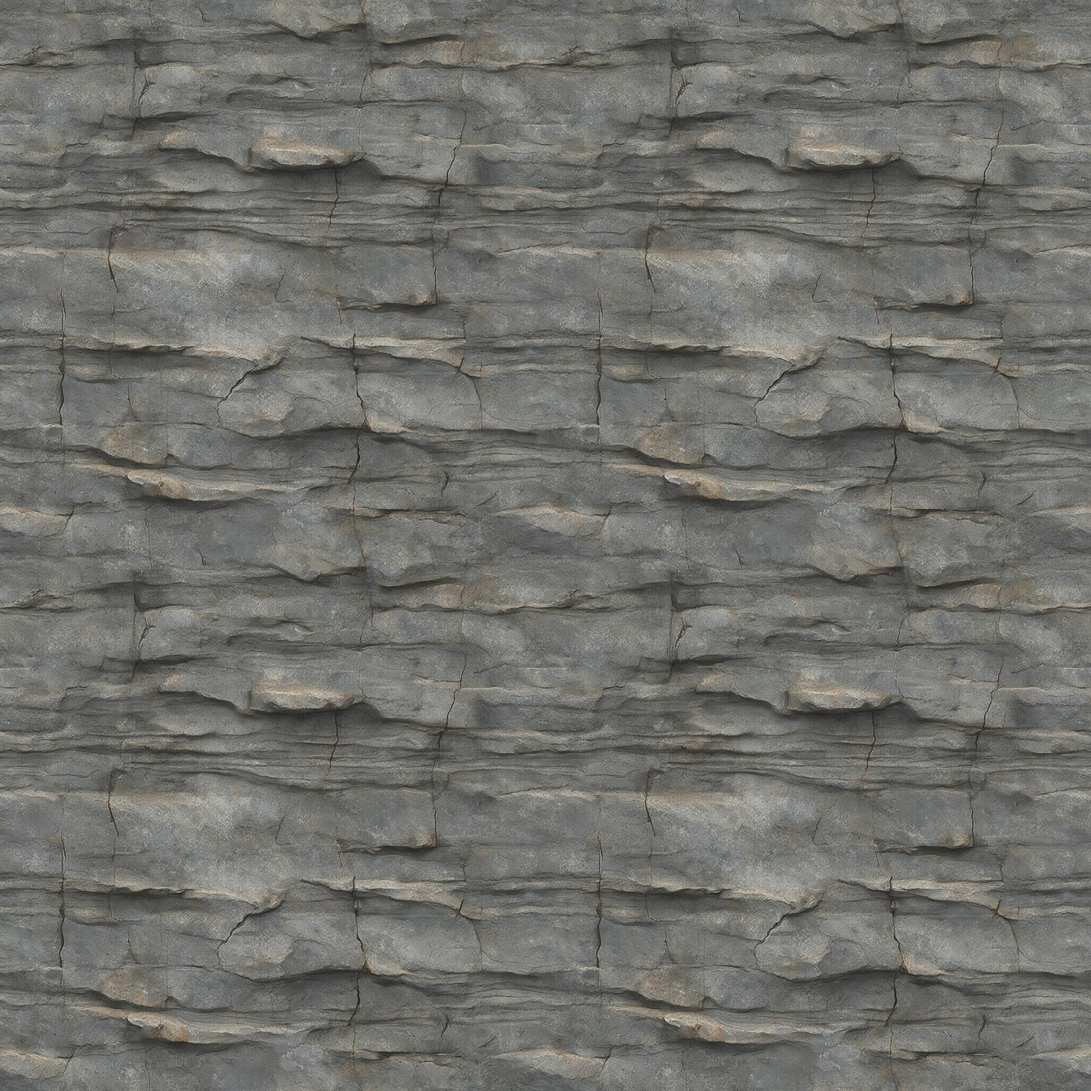
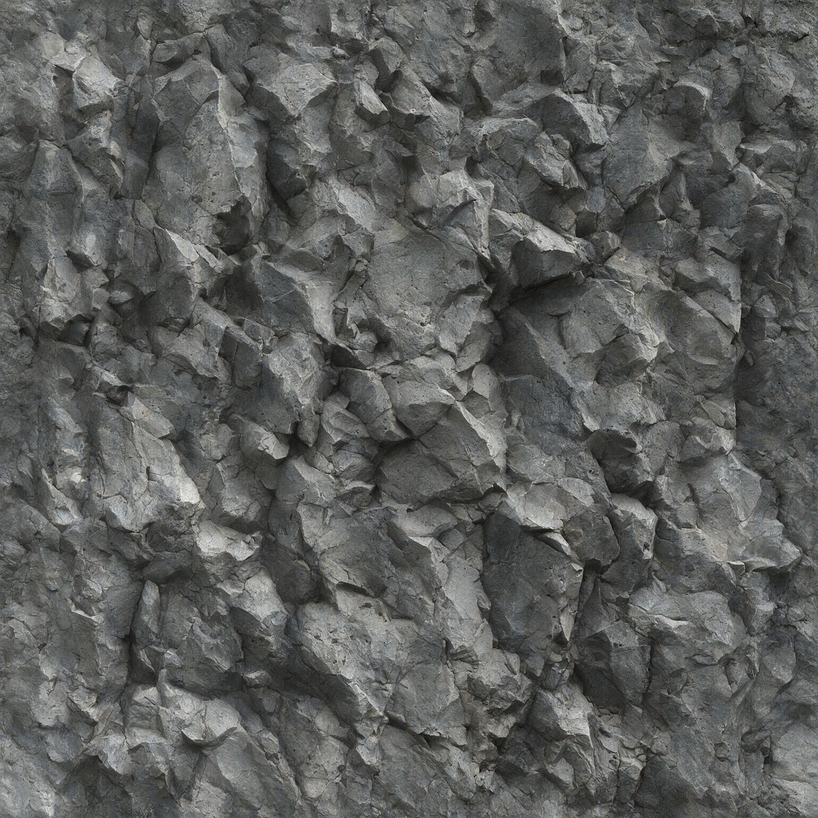
fix(assets): ice_glacial was a landscape PHOTO, cliff_strata was brickwork
Two textures failed on visual inspection that my seam metric had passed, because I
checked the numbers and never looked at the image:

- ice_glacial.jpg was a perspective aerial photograph of a frozen lake, horizon line,
  sky and snow-capped mountain range included. It was mapped onto the Glacier Throne and
  the frozen lake, so the tundra hero landmark was wallpapered in a picture of scenery.
  Replaced with a true top-down ice sheet: pressure-crack web, wind-blown snow, no horizon.
- cliff_strata.jpg is regular horizontal courses of ~1 m blocks with mortar-like seams —
  the source of 'the mountain is made of bricks' in Dragon Peaks and the 'wallpapered'
  mountain ring reported in celestial, infernal and void. Replaced with irregular jagged
  fracture planes at random angles.

Both re-made seamless by periodic decomposition and judged 2x2 TILED, which is the only
way a repeat artifact shows itself.

diff --git a/src/world/Props.js b/src/world/Props.js
@@ -287,10 +287,11 @@ export class Props {
     };
     this.regionMat = {
       forest: mkTri('rm-forest', 'granite_moss', 0.30, { moss: 0.35 }),                                    // elven ruins sinking under moss
-      // 0.55 (a ~1.8 m tile), not 0.28: on the Throne's 12 m slabs a 3.6 m tile put ONE big feature on each
+      // 0.40 (a 2.5 m tile), not 0.28: on the Throne's 12 m slabs a 3.6 m tile put ONE big feature on each
       // face and triplanar swapped axis at every corner, which is the wave-2 "per-face photo-vista seams
-      // that mismatch at every edge". At 1.8 m the same map reads as ice crystal instead of a pasted photo.
-      tundra: mkTri('rm-tundra', 'ice_glacial', 0.55, { rough: 0.45, moss: 0.45, mossCol: [0.62, 0.66, 0.78] }), // glacial ice, snow-dusted up-faces
+      // that mismatch at every edge". 2.5 m reads as ice strata; 0.55 (1.8 m) went the other way and the
+      // repeat became visible wallpaper on the same slabs.
+      tundra: mkTri('rm-tundra', 'ice_glacial', 0.40, { rough: 0.45, moss: 0.45, mossCol: [0.62, 0.66, 0.78] }), // glacial ice, snow-dusted up-faces
       celestial: mkTri('rm-celestial', 'marble_strata', 0.34),                                             // white marble + gold civilisation (0.20 = a 5 m tile: on a 25 m hero facade the strata read as plywood grain at 10 m)
       dragon: mkTri('rm-dragon', 'granite_carved', 0.12),                                                  // dwarven ashlar: ~2 m blocks on a 44 m gate
       infernal: mkTri('rm-infernal', 'basalt_columnar', 0.25, { rough: 0.95 }),
@@ -316,6 +317,12 @@ export class Props {
     this.barkMat = mkTri('rm-bark', 'bark_gnarled', 0.40, { rough: 0.92, moss: 0.30 });
     this.leafMat = new THREE.MeshStandardMaterial({ vertexColors: true, roughness: 0.95, metalness: 0, color: 0xffffff });
     this.plinthMat = patchMaterial(new THREE.MeshStandardMaterial({ map: sand, roughness: 0.7, metalness: 0.08, color: 0xe8e4f0 }), mergePatch(triplanarPatch(0.5, 0.0), { key: 'plinth' }));
+    // HEARTHFALL'S OWN STONE (wave-2 major "giant-brick kit boxes"): stoneMat runs the ruins_stone map at a
+    // 3 m tile, which on the Sundered Spire is a correct monumental block and on a 5 m cottage wall is a
+    // 0.5 m mega-brick. Same map, same shader program (customProgramCacheKey is still 'stone', and
+    // uTriScale is a per-material uniform), just a 1.3 m tile — cottage-scale coursing, zero extra cost.
+    this.villageMat = patchMaterial(new THREE.MeshStandardMaterial({ map: sand, vertexColors: true, roughness: 0.92, metalness: 0.02, color: 0xf2ece0 }),
+      mergePatch(triplanarPatch(ruinsTex ? 0.78 : 1.0, 0.30, [0.52, 0.58, 0.38]), { key: 'stone' }));
     // Wayfinder Steles get their OWN material, not stoneMat/basaltMat: stoneMat's map is the sandstone
     // brick photo (or its brick-patterned procedural fallback) — a vertex tint can darken a brick texture
     // but can never remove the brick pattern, which is why the steles read as a chimney. This is a flat
@@ -830,7 +837,7 @@ export class Props {
         if (!bb || bb.id !== 'shadowfen' || bb.w < 0.55) continue;
         const y = h(x, z);
         if (y < WL - 2.6 || y > WL + 0.6) continue;                          // standing water through to the hummock edge
-        reedClump(x, y - 0.15, z, clamp(1 + (WL - y) * 0.5, 1, 2.1));        // taller stems where it is deeper
+        reedClump(x, y - 0.15, z, clamp(1 + (WL - y) * 0.4, 1, 1.6));        // taller stems where it is deeper (capped: an 8 m bulrush is a hedge, not a reed)
       }
     }
     const mkCards = (geos, gt, tex, name) => { if (!geos.length || !tex) return;
@@ -969,7 +976,9 @@ export class Props {
     }
     for (let i = 0; i < 5; i++) {                                                          // the clutch, clustered so it reads as a clutch
       const a = (i / 5) * 6.2832 + rng() * 0.5, d = (0.25 + rng() * 0.75) * s;
-      (this._eggs ??= []).push([x + Math.cos(a) * d, y + 0.78 * s, z + Math.sin(a) * d, (0.62 + rng() * 0.12) * s]);
+      // 1.28s, not 0.78s: the egg is a unit sphere scaled by its own radius, so at 0.78 two thirds of it
+      // sat inside the 0.62s scrape — the clutch was buried in the nest it is supposed to sit in.
+      (this._eggs ??= []).push([x + Math.cos(a) * d, y + 1.28 * s, z + Math.sin(a) * d, (0.62 + rng() * 0.12) * s]);
     }
     col.add({ type: 'sphere', pos: V3(x, y + 0.8 * s, z), r: R * 1.1 });
   }
@@ -1131,9 +1140,9 @@ export class Props {
       wmesh.name = 'village-windows'; wmesh.renderOrder = 1; scene.add(wmesh);
       this.villageWindows = wmesh;
     }
-    const wm = new THREE.Mesh(flat(mergeAll(walls, wallT)), this.stoneMat);
+    const wm = new THREE.Mesh(flat(mergeAll(walls, wallT)), this.villageMat);   // cottage-scale coursing, not Sundered-Spire blocks
     wm.castShadow = wm.receiveShadow = true; wm.name = 'village-walls'; scene.add(wm);
-    const rm = new THREE.Mesh(flat(mergeAll(roofs, roofT)), this.stoneMat);
+    const rm = new THREE.Mesh(flat(mergeAll(roofs, roofT)), this.villageMat);
     rm.castShadow = rm.receiveShadow = true; rm.name = 'village-thatch'; scene.add(rm);
     this.landmarks.village = V3(CX, wy, CZ);
   }
@@ -1289,7 +1298,12 @@ export class Props {
         col.add({ type: 'box', box: new THREE.Box3(V3(CX - 5.2, top - 2, CZ - 3.5), V3(CX + 5.2, top + 2.0, CZ + 4.0)), walkable: true });
         fringe(CX - 4.9, CZ + 3.9, CX + 4.9, CZ + 3.9, top + 2.0, 12);          // icicle fringes: seat lip,
         for (const sd of [-1, 1]) fringe(CX + sd * 5.5, CZ - 3.5, CX + sd * 5.5, CZ + 3.7, top + 4.2, 8);   // armrest edges,
-        fringe(CX - 3.9, CZ + BZ + 1.3, CX + 3.9, CZ + BZ + 1.3, by + 6.4, 9);  // and the crown of the back
+        { const cy2 = by + 6.4;                                                 // the crest: a stepped crown and two frost spires, so the back ends in a throne instead of a flat parapet
+          P(new THREE.BoxGeometry(9.0, 0.9, 3.0).translate(CX, cy2 + 0.45, CZ + BZ), ICE2);
+          P(new THREE.BoxGeometry(6.0, 0.9, 2.6).translate(CX, cy2 + 1.3, CZ + BZ), ICE);
+          P(new THREE.ConeGeometry(1.5, 5.2, 6).translate(CX, cy2 + 4.3, CZ + BZ), ICE);
+          for (const sd of [-1, 1]) P(new THREE.ConeGeometry(0.85, 3.2, 6).rotateZ(sd * 0.16).translate(CX + sd * 3.4, cy2 + 3.2, CZ + BZ), ICE2);
+          fringe(CX - 3.9, CZ + BZ + 1.3, CX + 3.9, CZ + BZ + 1.3, cy2, 9); }   // and icicles off the crown
         ring(4, 16, (a) => { const px = CX + Math.cos(a) * 16, pz = CZ + Math.sin(a) * 16, ph = 12 + rng() * 4;
           pillar(px, pz, ph, 1.2, 0.5, [0.74, 0.85, 0.98]);
           fringe(px - 1.0, pz, px + 1.0, pz, h(px, pz) + ph * 0.7, 5); });      // frost collars on the ring pillars
@@ -1555,7 +1569,7 @@ export class Props {
         // the gate. The approach bearing is the line goto('dragon')/&at=dragon arrives on.
         { let best = null;                                                                     // pick the flattest bench beside the arrival line
           for (let k2 = 0; k2 < 14; k2++) {
-            const back = 74 + (k2 % 7) * 9, off = (k2 < 7 ? 1 : -1) * (21 + (k2 % 3) * 6);
+            const back = 52 + (k2 % 7) * 8, off = (k2 < 7 ? 1 : -1) * (17 + (k2 % 3) * 5);   // beside the walk-in, not behind the arrival point
             const nx = CX - ux * back + tx * off, nz = CZ - uz * back + tz * off, ny = h(nx, nz);
             const rough = Math.abs(h(nx + 6, nz) - ny) + Math.abs(h(nx, nz + 6) - ny) + Math.abs(h(nx - 6, nz) - ny) + Math.abs(h(nx, nz - 6) - ny);
             if (!best || rough < best.rough) best = { nx, nz, ny, rough };
@@ -2611,7 +2625,10 @@ export class Props {
       const hue = rng();
       C.setRGB(0.34 + hue * 0.22, 0.80, 0.70 + (1 - hue) * 0.16);   // mint cap, not white: a white albedo in full sun is already at the bloom threshold before the glow is added
       lod.add(M, C);
-      if (s > 0.75 && glowPts.length < 450 && rng() < 0.6) glowPts.push([x, y + 0.06, z, 0.7 + s * 0.9]); };
+      // ONE pool per cluster, not one per cap, and a hard radius cap. With the fen's bracket-scale fungus
+      // the old 0.6-per-cap / 0.7+0.9s rule stacked ~450 overlapping 3.4 m additive discs into a flat
+      // teal SHEET on the water — a glowing puddle, not fungus, and one bad frame away from the blob law.
+      if (s > 0.75 && glowPts.length < 450 && rng() < 0.09) glowPts.push([x, y + 0.06, z, Math.min(0.7 + s * 0.4, 1.5)]); };
     for (const t of veg?.trees ?? []) { if (t.z > -175 || Math.abs(t.x) > 260 || rng() < 0.45) continue; const n = 1 + Math.floor(rng() * 4); for (let i = 0; i < n; i++) { const a = rng() * 6.28, d = t.r + 0.3 + rng() * 1.4; add(t.x + Math.cos(a) * d, t.z + Math.sin(a) * d, 0.5 + rng() * 1.3); } }
     for (let i = 0; i < 700; i++) { const x = (rng() - 0.5) * 500, z = -190 - rng() * 230; if (Math.hypot(x, z + 28) < 10) continue; const n = 1 + Math.floor(rng() * 3); for (let k = 0; k < n; k++) add(x + (rng() - 0.5) * 2, z + (rng() - 0.5) * 2, 0.4 + rng() * 1.0); }
     // The same fungus, in the two OUTER regions whose spec asks for it by name: Whisperwood Deep's fae lights
@@ -2663,7 +2680,11 @@ export class Props {
     for (const r of this._rot) r.rotation.y += dt * r.userData.speed;
     const dcam = this.game.camera.position.distanceTo(A.group.position);
     A.light.intensity = (55 + 12 * Math.sin(t * 1.1)) * clamp(1 - (dcam - 55) / 25, 0, 1); // distance-fade the only point light (radius 48; keeps the shader program stable)
-    if (this.mushGlow) this.mushGlow.material.opacity = clamp(1.15 - (this.game.sky?.sunIntensity ?? 1), 0.06, 0.85); // glow pools live at night, near-off at noon
+    // Glow pools live at night, near-off at noon. Ceiling dropped 0.85 -> 0.55 (BLOB LAW): Shadowfen's
+    // overcast key holds sunIntensity low at MIDDAY, so the "night" value was running at noon, and two
+    // overlapping 3.8 m discs at 0.85 additive stacked into a pale mint smear on the water — a blob by any
+    // reading. One pool per cluster (see glowPts above) plus this ceiling keeps a single disc hue-true.
+    if (this.mushGlow) this.mushGlow.material.opacity = clamp(1.15 - (this.game.sky?.sunIntensity ?? 1), 0.06, 0.55);
     if (this.villageWindows) this.villageWindows.material.opacity = clamp(1.05 - (this.game.sky?.sunIntensity ?? 1) * 1.6, 0, 0.9);   // hearths lit after dusk
     if (!this.game.world.vegetation?.lods && this._ownLods) { const p = this.game.camera.position; for (const l of this._ownLods) l.refresh(p.x, p.z); }
     if (!this.game.world.vegetation) this.U.uTime.value = t;

diff --git a/src/world/Vegetation.js b/src/world/Vegetation.js
@@ -21,8 +21,10 @@ import { BIOMES, RL_EDGE } from './Biomes.js';
  *   vegetation.uniforms  { uTime, uWind, uSunDirV, uSunColor, uSunI } shared by Props materials
  *   vegetation.setWind(w)
  *   vegetation.collisionSelfTest() -> {pass, tests[]}  deterministic sphere-walk into registered colliders (for critics)
- * Exports helpers for Props: InstLOD, patchMaterial, triplanarPatch, fadePatch, erodeFade, makeRockGeometry,
- *   noiseTexture, rgbaTexture, normalFromLuma
+ * Exports helpers for Props: InstLOD, patchMaterial, triplanarPatch, fadePatch, erodeFade, instTintPatch,
+ *   makeRockGeometry, noiseTexture, rgbaTexture, normalFromLuma
+ * NOTE for anyone building an InstancedMesh here: instanceColor does NOT reach the fragment shader on its
+ * own in three r185 — add `instTintPatch` (see its doc comment) or your per-instance tint is silently dead.
  */
 
 // ---------------------------------------------------------------- per-biome scatter tables (Biomes.js ids)
